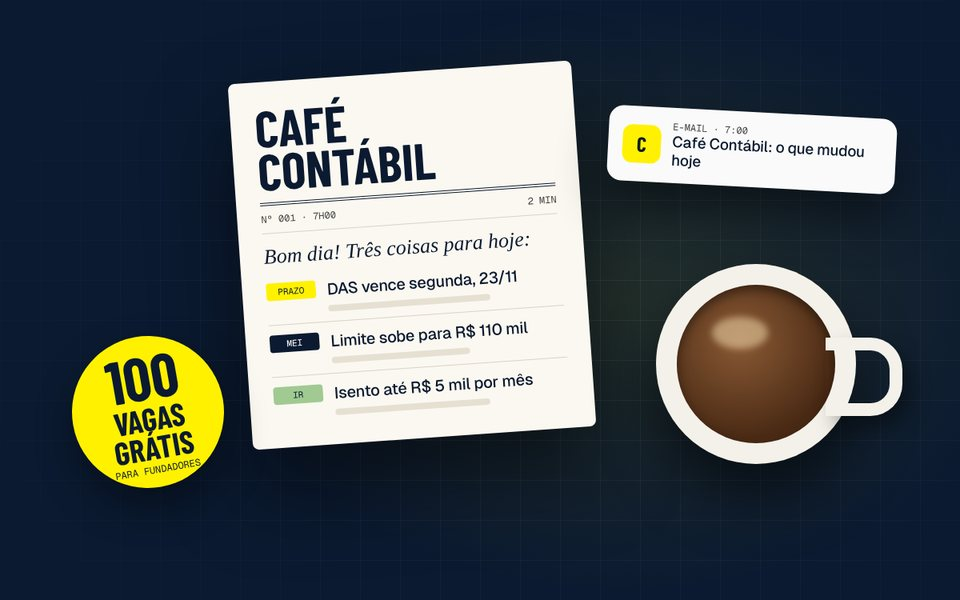
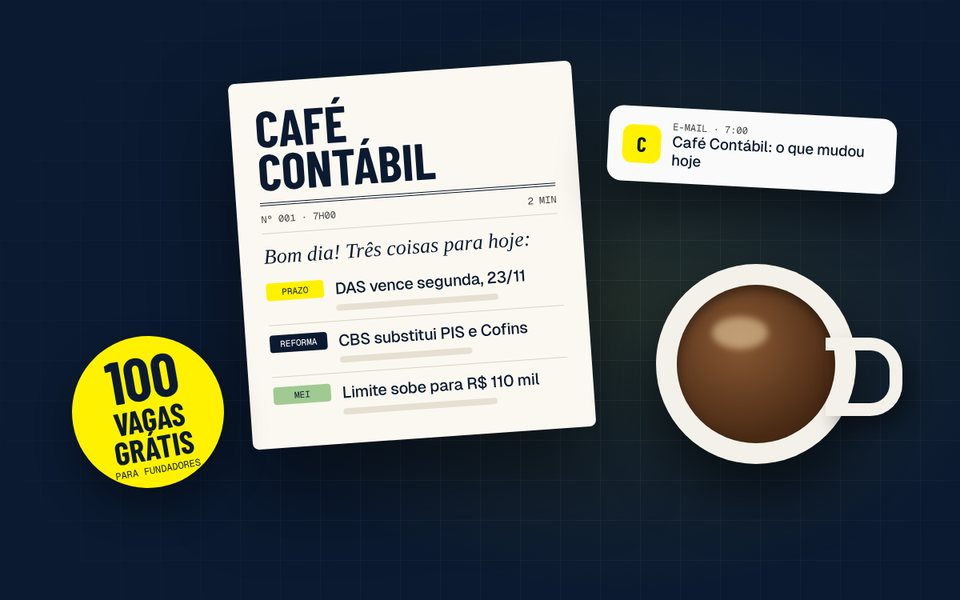
Amplia o Café Contábil para Reforma Tributária, tributos e contabilidade
Claude-Session: https://claude.ai/code/session_01Fa3tAtS5QtGvEJKKqd2z4p

Changed region(s): [[0.2812, 0.45, 0.5625, 0.51], [0.3125, 0.6, 0.5625, 0.69], [0.2812, 0.54, 0.5625, 0.6]]

diff --git a/cafe/index.html b/cafe/index.html
@@ -4,7 +4,7 @@
 <meta charset="utf-8">
 <meta name="viewport" content="width=device-width, initial-scale=1">
 <title>Café Contábil · o jornal diário do Yahn Contador</title>
-<meta name="description" content="As mudanças de imposto que afetam o seu negócio em 2 minutos, todo dia útil às 7h. Grátis para sempre para os 100 primeiros assinantes.">
+<meta name="description" content="Reforma Tributária, tributos, MEI e contabilidade em 2 minutos, todo dia útil às 7h. Grátis para sempre para os 100 primeiros assinantes.">
 <meta name="theme-color" content="#0B1A30">
 <link rel="preconnect" href="https://fonts.googleapis.com">
 <link rel="preconnect" href="https://fonts.gstatic.com" crossorigin>
@@ -54,6 +54,7 @@ img{max-width:100%;display:block}
 .hero-in{display:grid;grid-template-columns:1fr 1fr;gap:64px;align-items:start}
 .kick{display:inline-flex;align-items:center;gap:10px;border:1px solid var(--stroke);border-radius:999px;padding:7px 14px;color:var(--stone)}
 .hero h1{font-size:clamp(76px,10vw,150px);color:var(--chalk);margin-top:22px;line-height:.82}
+.news article{grid-template-columns:72px 1fr}
 .hero .sub{font-size:clamp(28px,3vw,38px);color:var(--act);margin-top:12px;line-height:1.1}
 .hero .lead{color:var(--stone);font-size:19px;max-width:30em;margin:22px 0 28px}
 
@@ -175,8 +176,7 @@ footer .wrap{display:flex;justify-content:space-between;flex-wrap:wrap;gap:12px}
     <div>
       <span class="kick mono"><span class="pulse"></span>Jornal diário · grátis para os 100 primeiros</span>
       <h1 class="disp">Café<br>Contábil</h1>
-      <p class="sub serif">o imposto do seu negócio em 2 minutos</p>
-      <p class="lead">Todo dia útil, às 7h, no seu e-mail: o que mudou nos impostos, o prazo da semana e uma dica rápida. Escrito por contador, com o link da fonte oficial em toda notícia.</p>
+      <p class="lead">Todo dia útil, às 7h, no seu e-mail: o que mudou na Reforma Tributária, nos tributos, no MEI e na contabilidade, o prazo da semana e uma dica rápida. Escrito por contador, com o link da fonte oficial em toda notícia.</p>
 
       <div class="vagas" aria-live="polite">
         <div class="row"><b id="v-txt">100 vagas de fundador</b><span class="mono" id="v-sub">grátis para sempre</span></div>
@@ -193,6 +193,7 @@ footer .wrap{display:flex;justify-content:space-between;flex-wrap:wrap;gap:12px}
           <div class="chips">
             <label><input type="radio" name="perfil" value="mei" checked><span>MEI</span></label>
             <label><input type="radio" name="perfil" value="simples"><span>Empresa do Simples</span></label>
+            <label><input type="radio" name="perfil" value="empresa"><span>Presumido ou Real</span></label>
             <label><input type="radio" name="perfil" value="autonomo"><span>Autônomo</span></label>
             <label><input type="radio" name="perfil" value="clt"><span>CLT</span></label>
             <label><input type="radio" name="perfil" value="contador"><span>Contador</span></label>
@@ -220,8 +221,8 @@ footer .wrap{display:flex;justify-content:space-between;flex-wrap:wrap;gap:12px}
         <p class="hi">Bom dia! Três coisas para hoje:</p>
         <div class="news">
           <article><span class="tag y">Prazo</span><div><h4>DAS de outubro vence segunda, 23/11</h4><p>O dia 20 é feriado nacional da Consciência Negra, então o vencimento passa para o próximo dia útil.</p><span class="src">Fonte: Agenda Tributária · Receita Federal</span></div></article>
-          <article><span class="tag">MEI</span><div><h4>Limite sobe para R$ 110 mil em janeiro</h4><p>Dá uma média de R$ 9.166 por mês, e o MEI passa a poder ter até 2 funcionários.</p><span class="src">Fonte: Lei Complementar 238/2026</span></div></article>
-          <article><span class="tag g">IR</span><div><h4>Isento até R$ 5 mil por mês</h4><p>Quem ganha até R$ 7.350 também paga menos. A declaração de 2027 é a primeira com a regra.</p><span class="src">Fonte: Lei 15.270/2025</span></div></article>
+          <article><span class="tag">Reforma</span><div><h4>CBS entra no lugar do PIS e da Cofins em janeiro</h4><p>2027 é o primeiro ano da cobrança da CBS. Quem é do Simples continua pagando tudo no DAS.</p><span class="src">Fonte: Lei Complementar 214/2025</span></div></article>
+          <article><span class="tag g">MEI</span><div><h4>Limite sobe para R$ 110 mil em janeiro</h4><p>Dá uma média de R$ 9.166 por mês, e o MEI passa a poder ter até 2 funcionários.</p><span class="src">Fonte: Lei Complementar 238/2026</span></div></article>
         </div>
         <div class="tip"><b>Dica de 1 minuto</b>Crie uma pasta por mês no celular e salve ali o comprovante do DAS. Na declaração anual, está tudo junto.</div>
         <div class="sign"><img src="../img/yahn.jpg" alt="" width="34" height="34">Yahn Torricelli Godoy · contador</div>
@@ -235,8 +236,8 @@ footer .wrap{display:flex;justify-content:space-between;flex-wrap:wrap;gap:12px}
   <div class="wrap">
     <div class="head"><h2 class="disp">O que chega toda manhã</h2><p>Uma leitura curta para fazer junto com o café, antes de abrir o seu negócio.</p></div>
     <div class="parts">
-      <div><span class="mono">Notícias</span><h3>O que mudou</h3><p>Até 3 mudanças de imposto que afetam MEI, empresas do Simples e quem declara IR. Se não houve nada, a edição diz isso e não inventa.</p></div>
-      <div><span class="mono">Agenda</span><h3>Prazo da semana</h3><p>DAS, declarações, eSocial e IR, já com as datas ajustadas quando cai em feriado.</p></div>
+      <div><span class="mono">Notícias</span><h3>O que mudou</h3><p>Até 3 notícias de Reforma Tributária, tributos, MEI, IR e rotina contábil. Se não houve nada importante, a edição diz isso e não inventa.</p></div>
+      <div><span class="mono">Agenda</span><h3>Prazo da semana</h3><p>DAS, DCTFWeb, eSocial, declarações e IR, já com as datas ajustadas quando cai em feriado.</p></div>
       <div><span class="mono">Prática</span><h3>Dica de 1 minuto</h3><p>Uma coisa simples para fazer hoje e deixar o seu negócio mais organizado.</p></div>
       <div><span class="mono">Confiança</span><h3>Fonte oficial</h3><p>Toda notícia traz o link da lei, da Receita ou do gov.br, para você conferir.</p></div>
     </div>
@@ -264,7 +265,7 @@ footer .wrap{display:flex;justify-content:space-between;flex-wrap:wrap;gap:12px}
       <div>
         <span class="mono" style="color:var(--muted)">Quem escreve</span>
         <h3 class="disp">Yahn Torricelli Godoy</h3>
-        <p>Bacharel em Direito e Contabilidade, pós-graduando em Reforma Tributária. Atendo empresas em Jaú/SP e acompanho as mudanças de imposto todo dia para os meus clientes. O Café Contábil é esse acompanhamento, resumido para você.</p>
+        <p>Bacharel em Direito e Contabilidade, pós-graduando em Reforma Tributária. Atendo empresas em Jaú/SP e acompanho as mudanças de imposto todo dia para os meus clientes. O Café Contábil é esse acompanhamento, com foco na Reforma Tributária, resumido para você.</p>
       </div>
     </div>
   </div>
@@ -276,7 +277,7 @@ footer .wrap{display:flex;justify-content:space-between;flex-wrap:wrap;gap:12px}
     <div class="faq">
       <details><summary>Quando sai a primeira edição?</summary><p>Em breve. Você recebe um e-mail no dia do lançamento, e a partir daí o Café Contábil chega todo dia útil às 7h.</p></details>
       <details><summary>É grátis mesmo?</summary><p>Para os 100 primeiros, sim, e para sempre. Quem entrar depois vai pagar uma assinatura, que ainda vou anunciar.</p></details>
-      <details><summary>É para mim?</summary><p>É para MEI, empresa do Simples, autônomo e para quem é CLT e quer entender o Imposto de Renda. Se você paga imposto, vai encontrar algo útil.</p></details>
+      <details><summary>É para mim?</summary><p>É para quem tem empresa ou é MEI, para autônomos, para quem trabalha com contabilidade e para quem quer acompanhar a Reforma Tributária sem juridiquês.</p></details>
       <details><summary>Posso cancelar?</summary><p>Pode, a qualquer momento. Todo e-mail tem um link para cancelar com um clique.</p></details>
       <details><summary>O que vocês fazem com meus dados?</summary><p>Uso só para enviar o Café Contábil e avisos do Yahn Contador. Não vendo nem compartilho com ninguém.</p></details>
       <details><summary>O jornal substitui um contador?</summary><p>Não. Ele te mantém informado. Para decidir algo do seu caso, fale com o seu contador ou com o meu escritório.</p></details>

diff --git a/index.html b/index.html
@@ -693,7 +693,7 @@ if(LINKS.comunidade) document.getElementById("comm-link").href = LINKS.comunidad
 const reduce = matchMedia("(prefers-reduced-motion: reduce)").matches;
 
 const PRODUCTS = [
-  {tags:["mei","ir"], img:"img/cafe-contabil.jpg", fmt:"Jornal diário", st:["free","100 vagas"], name:"Café Contábil", desc:"O que mudou nos impostos do seu negócio, em 2 minutos, todo dia útil às 7h no seu e-mail.", items:["Até 3 notícias com fonte oficial","Prazo da semana já ajustado","Dica de 1 minuto"], price:"Grátis", note:"para os 100 primeiros", link:LINKS.cafe, cta:"Garantir vaga", cover:"cafe", main:true},
+  {tags:["mei","ir"], img:"img/cafe-contabil.jpg", fmt:"Jornal diário", st:["free","100 vagas"], name:"Café Contábil", desc:"Reforma Tributária, tributos, MEI e contabilidade em 2 minutos, todo dia útil às 7h no seu e-mail.", items:["Reforma Tributária sem juridiquês","Prazo da semana já ajustado","Fonte oficial em toda notícia"], price:"Grátis", note:"para os 100 primeiros", link:LINKS.cafe, cta:"Garantir vaga", cover:"cafe", main:true},
   {tags:["apps","mei"], img:"img/portal-mei.jpg", fmt:"App web", st:["free","30 dias grátis"], name:"Portal MEI", desc:"DAS, limite e documentos do MEI no mesmo lugar.", items:["DAS emitido antes do dia 20","Barra do limite anual","Pasta de documentos"], price:"Grátis", note:"por 30 dias", link:LINKS.portal, cta:"Testar grátis", cover:"portal", main:true},
   {tags:["guias","mei"], img:"img/mei-no-controle-gratis.jpg", fmt:"Ebook PDF", st:["free","Grátis"], name:"MEI no Controle · edição 2027", desc:"O básico do MEI em 8 páginas, já com o limite novo de 2027.", items:["Limite de R$ 110 mil e 2 funcionários","Calendário 2027 com as datas ajustadas","Checklist de 15 minutos por mês"], price:"Grátis", note:"acesso imediato", link:LINKS.guiaGratis, cta:"Quero o guia", cover:"mei", main:true},
   {tags:["guias","mei"], img:"img/kit-mei-no-controle.jpg", fmt:"Kit digital", st:["paid","Kiwify"], name:"Kit MEI no Controle", desc:"Guia completo, planilha de faturamento e checklist fiscal para manter o MEI em dia.", items:["Guia completo do MEI","Planilha: quanto falta para o limite","Checklist mensal e calendário fiscal","Bônus de acesso ao Portal MEI"], price:"R$ 47", note:"pagamento único", link:LINKS.kitMEI, cta:"Ver o kit", cover:"kit"},
